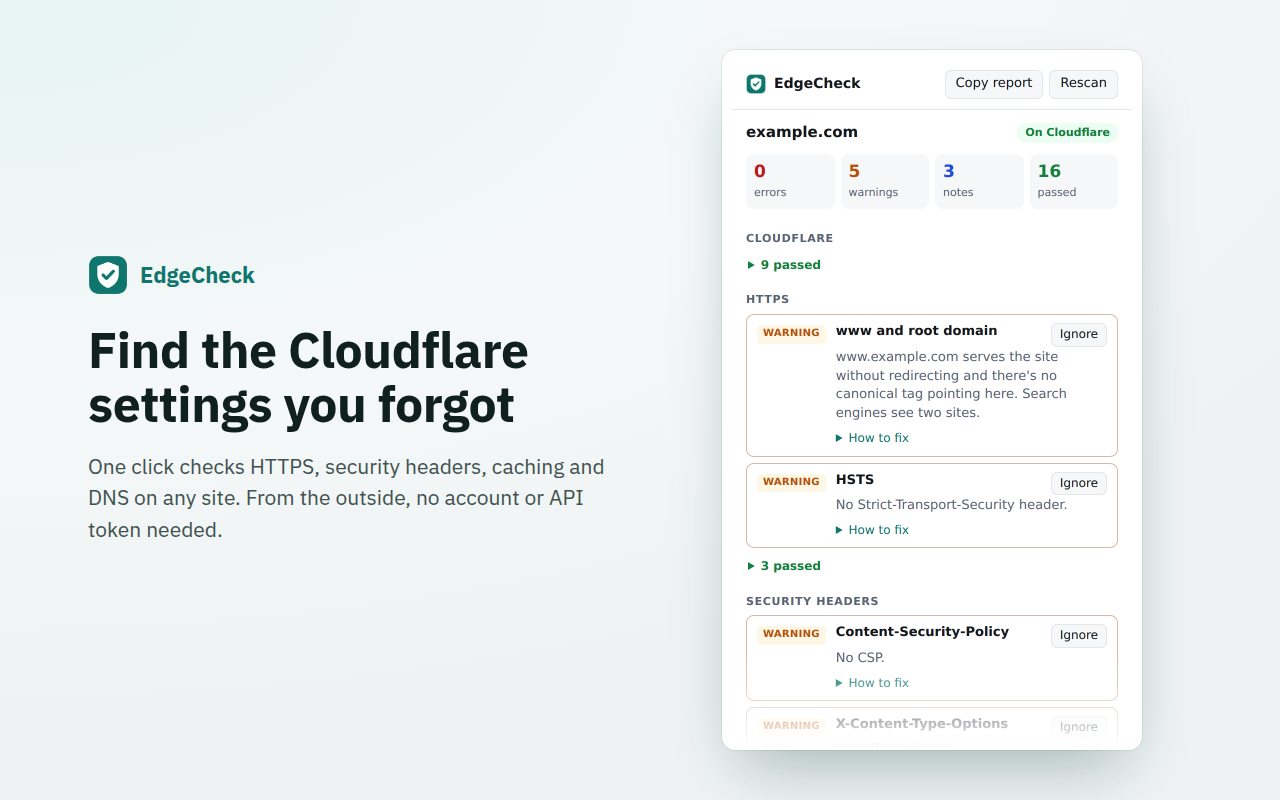
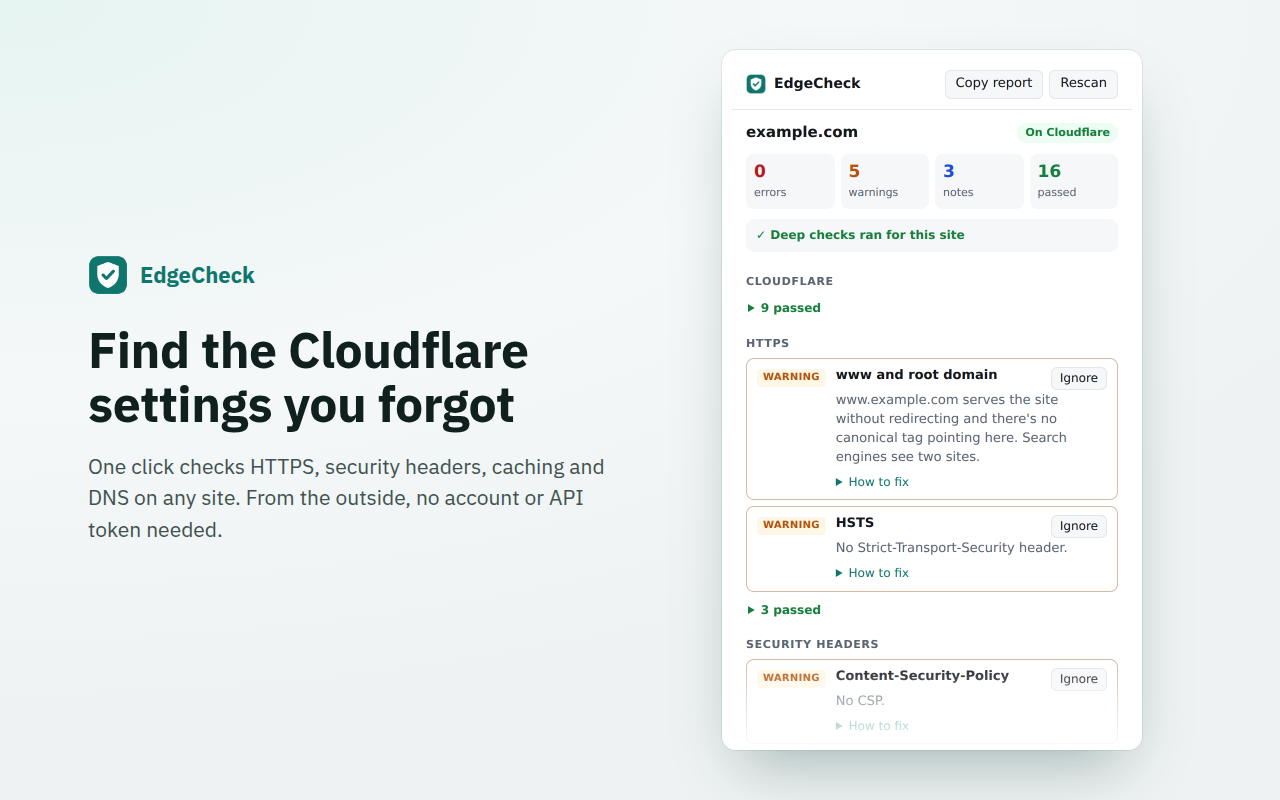
EdgeCheck v0.2.1: deep checks get a permanent control under the summary, version in footer
The deep-check button sat inside the first pending HTTPS item and was easy to miss; once
permissions were granted, deep checks ran silently with no visible status.

Changed region(s): [[0.5625, 0.2812, 0.875, 0.9375], [0.8125, 0.7812, 0.875, 0.8125], [0.8125, 0.8438, 0.8438, 0.875]]

diff --git a/extension/src/popup.js b/extension/src/popup.js
@@ -19,6 +19,7 @@ let state = {
 
 document.documentElement.lang = chrome.i18n.getUILanguage();
 document.querySelectorAll('[data-i18n]').forEach((el) => { el.textContent = t(el.dataset.i18n); });
+$('version').textContent = `EdgeCheck v${chrome.runtime.getManifest().version}`;
 
 function el(tag, cls, text) {
   const n = document.createElement(tag);
@@ -133,7 +134,22 @@ function recompute() {
   chrome.action.setBadgeBackgroundColor({ tabId: state.tab.id, color: hasFail ? '#b91c1c' : '#b45309' });
 }
 
-function itemNode(r, muted, withButton) {
+// Deep checks get a permanent spot under the summary: a button until they've run, a status after.
+function renderDeep() {
+  const box = $('deep');
+  const ran = !!(state.redirect || state.variant);
+  if (ran) {
+    box.replaceChildren(el('span', 'deep-on', t('deepOn')));
+    return;
+  }
+  const b = el('button', 'primary run', t('deepButton'));
+  b.type = 'button';
+  b.disabled = deepRunning;
+  b.addEventListener('click', runDeepChecks);
+  box.replaceChildren(b, el('span', 'deep-note', state.deepNote || t('deepHint')));
+}
+
+function itemNode(r, muted) {
   const li = el('div', `item st-${r.status}`);
   li.append(el('span', 'dot', t('st_' + r.status)), el('span', 'title', r.title));
   if (r.status !== 'pass' && r.status !== 'skip') {
@@ -142,13 +158,7 @@ function itemNode(r, muted, withButton) {
     b.addEventListener('click', () => toggleMute(r.id));
     li.append(b);
   }
-  li.append(el('span', 'detail', r.status === 'action' && state.deepNote ? state.deepNote : r.detail));
-  if (withButton) {
-    const b = el('button', 'small primary run', t('deepButton'));
-    b.type = 'button';
-    b.addEventListener('click', runDeepChecks);
-    li.append(b);
-  }
+  li.append(el('span', 'detail', r.detail));
   if (r.fix && !muted && r.status !== 'action') {
     const d = el('details', 'fix');
     d.append(el('summary', null, t('howToFix')), el('p', null, r.fix));
@@ -174,8 +184,8 @@ function render() {
     return box;
   }));
 
-  // One "run deep checks" button, on the first pending deep check.
-  let buttonPlaced = false;
+  renderDeep();
+
   const groups = GROUPS.map((g) => {
     const rs = active.filter((r) => r.group === g);
     if (!rs.length) return null;
@@ -184,16 +194,12 @@ function render() {
     const skipped = rs.filter((r) => r.status === 'skip');
     const sec = el('section', 'group');
     sec.append(el('h2', null, t('grp_' + g)));
-    for (const r of open) {
-      const withButton = r.status === 'action' && !buttonPlaced;
-      if (withButton) buttonPlaced = true;
-      sec.append(itemNode(r, false, withButton));
-    }
+    for (const r of open) sec.append(itemNode(r, false));
     if (passed.length || skipped.length) {
       const d = el('details', 'passed');
       const label = [passed.length && t('groupPassed', [passed.length]), skipped.length && t('groupSkipped', [skipped.length])]
         .filter(Boolean).join(' · ');
-      d.append(el('summary', null, label), ...passed.concat(skipped).map((r) => itemNode(r, false, false)));
+      d.append(el('summary', null, label), ...passed.concat(skipped).map((r) => itemNode(r, false)));
       sec.append(d);
     }
     return sec;
@@ -203,7 +209,7 @@ function render() {
   const ignored = results.filter((r) => muted.includes(r.id));
   $('ignoredBox').hidden = !ignored.length;
   $('ignoredTitle').textContent = t('ignored', [ignored.length]);
-  $('ignoredList').replaceChildren(...ignored.map((r) => itemNode(r, true, false)));
+  $('ignoredList').replaceChildren(...ignored.map((r) => itemNode(r, true)));
 
   $('copy').disabled = false;
   $('rescan').disabled = deepRunning;

diff --git a/extension/src/popup.css b/extension/src/popup.css
@@ -120,7 +120,6 @@ main { padding: 4px 14px 8px; }
 .fix { grid-column: 2 / 4; margin-top: 4px; }
 .fix summary { cursor: pointer; color: var(--accent); font-size: 12px; }
 .fix p { margin: 4px 0 0; }
-.item .run { grid-column: 2 / 4; justify-self: start; margin-top: 6px; }
 
 .ignored { margin: 0 14px 8px; color: var(--muted); }
 .ignored > summary { cursor: pointer; padding: 6px 0; }
@@ -138,3 +137,10 @@ main { padding: 4px 14px 8px; }
 .passed[open] > summary { margin-bottom: 6px; }
 .foot p { margin: 0; }
 .foot p + p { margin-top: 6px; }
+
+.deep {
+  display: flex; flex-wrap: wrap; align-items: center; gap: 6px 10px;
+  margin-top: 10px; padding: 8px 10px; border-radius: 8px; background: var(--surface);
+}
+.deep-note { color: var(--muted); font-size: 12px; flex: 1 1 180px; }
+.deep-on { color: var(--pass); font-size: 12px; font-weight: 600; }

diff --git a/extension/src/popup.html b/extension/src/popup.html
@@ -25,6 +25,7 @@
     </div>
     <div id="zone" class="zone"></div>
     <div id="summary" class="summary"></div>
+    <div id="deep" class="deep"></div>
   </section>
 
   <main id="results" aria-live="polite">
@@ -39,6 +40,7 @@
   <footer class="foot">
     <p data-i18n="limits"></p>
     <p data-i18n="trademark"></p>
+    <p id="version"></p>
   </footer>
   <script type="module" src="popup.js"></script>
 </body>

diff --git a/tools/gen_locales.py b/tools/gen_locales.py
@@ -21,8 +21,11 @@ S = {
     "ignored": ("Ignored ($1)", "Yoksayılanlar ($1)"),
     "howToFix": ("How to fix", "Nasıl düzeltilir"),
     "deepButton": ("Run deep checks", "Derin kontrolleri çalıştır"),
-    "deep_action": ("Needs a one-time permission for this site to request its http:// and www/apex addresses.",
-                    "Sitenin http:// ve www/kök adreslerini istemek için bu siteye özel tek seferlik izin gerekir."),
+    "deep_action": ("Part of the deep checks. Run them with the button at the top.",
+                    "Derin kontrollerin parçası. Üstteki düğmeyle çalıştırın."),
+    "deepHint": ("Tests the http:// and www addresses. Asks once for this site.",
+                 "http:// ve www adreslerini test eder. Bu site için bir kez izin ister."),
+    "deepOn": ("✓ Deep checks ran for this site", "✓ Bu site için derin kontroller çalıştı"),
     "deepDenied": ("Permission wasn't granted, so deep checks didn't run.", "İzin verilmediği için derin kontroller çalışmadı."),
     "groupPassed": ("$1 passed", "$1 geçti"),
     "groupSkipped": ("$1 skipped", "$1 atlandı"),

diff --git a/store/listing.md b/store/listing.md
@@ -1,4 +1,4 @@
-# Chrome Web Store listing — EdgeCheck 0.2.0
+# Chrome Web Store listing — EdgeCheck 0.2.1
 
 ## Name (from _locales)
 - en: EdgeCheck — setup checker for Cloudflare® sites
